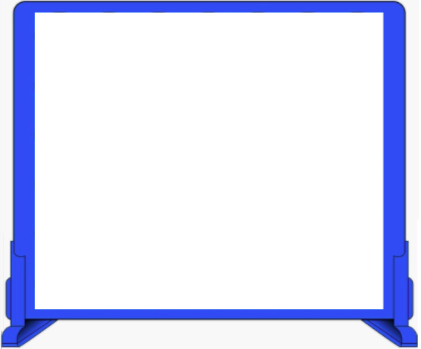
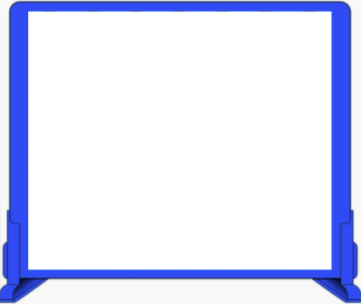
Centered game board

Changed region(s): [[0.0, 0.0, 1.0, 1.0]]

diff --git a/index.html b/index.html
@@ -1,5 +1,6 @@
 <!DOCTYPE html>
 <html lang="en">
+
 <head>
     <meta charset="UTF-8">
     <meta http-equiv="X-UA-Compatible" content="IE=edge">
@@ -10,70 +11,74 @@
     <h1>Connect 4</h1>
     <h3></h3>
     <div id="maincontent">
-    <table>
-        <tr id = "0">
-          <td><span id="cir00" class="circle"></span></td>
-          <td><span id="cir01" class="circle"></span></td>
-          <td><span id="cir02" class="circle"></span></td>
-          <td><span id="cir03" class="circle"></span></td>
-          <td><span id="cir04" class="circle"></span></td>
-          <td><span id="cir05" class="circle"></span></td>
-          <td><span id="cir06" class="circle"></span></td>
-        </tr>
-        <tr id = "1">
-            <td><span id="cir10" class="circle"></span></td>
-            <td><span id="cir11" class="circle"></span></td>
-            <td><span id="cir12" class="circle"></span></td>
-            <td><span id="cir13" class="circle"></span></td>
-            <td><span id="cir14" class="circle"></span></td>
-            <td><span id="cir15" class="circle"></span></td>
-            <td><span id="cir16" class="circle"></span></td>
-        </tr>
-        <tr id = "2">
-            <td><span id="cir20" class="circle"></span></td>
-            <td><span id="cir21" class="circle"></span></td>
-            <td><span id="cir22" class="circle"></span></td>
-            <td><span id="cir23" class="circle"></span></td>
-            <td><span id="cir24" class="circle"></span></td>
-            <td><span id="cir25" class="circle"></span></td>
-            <td><span id="cir26" class="circle"></span></td>
-        </tr>
-        <tr id ="3"> 
-            <td><span id="cir30" class="circle"></span></td>
-            <td><span id="cir31" class="circle"></span></td>
-            <td><span id="cir32" class="circle"></span></td>
-            <td><span id="cir33" class="circle"></span></td>
-            <td><span id="cir34" class="circle"></span></td>
-            <td><span id="cir35" class="circle"></span></td>
-            <td><span id="cir36" class="circle"></span></td>
-        </tr>
-        <tr id = "4">
-            <td><span id="cir40" class="circle"></span></td>
-            <td><span id="cir41" class="circle"></span></td>
-            <td><span id="cir42" class="circle"></span></td>
-            <td><span id="cir43" class="circle"></span></td>
-            <td><span id="cir44" class="circle"></span></td>
-            <td><span id="cir45" class="circle"></span></td>
-            <td><span id="cir46" class="circle"></span></td>
-        </tr>
-        <tr id = "5">
-            <td><span id="cir50" class="circle"></span></td>
-            <td><span id="cir51" class="circle"></span></td>
-            <td><span id="cir52" class="circle"></span></td>
-            <td><span id="cir53" class="circle"></span></td>
-            <td><span id="cir54" class="circle"></span></td>
-            <td><span id="cir55" class="circle"></span></td>
-            <td><span id="cir56" class="circle"></span></td>
-        </tr>
-      </table>
+        <!-- <img src="images/Connect4boardborder.png" /> -->
+        <div class="image">
+            <table>
+                <tr id="0">
+                    <td><span id="cir00" class="circle"></span></td>
+                    <td><span id="cir01" class="circle"></span></td>
+                    <td><span id="cir02" class="circle"></span></td>
+                    <td><span id="cir03" class="circle"></span></td>
+                    <td><span id="cir04" class="circle"></span></td>
+                    <td><span id="cir05" class="circle"></span></td>
+                    <td><span id="cir06" class="circle"></span></td>
+                </tr>
+                <tr id="1">
+                    <td><span id="cir10" class="circle"></span></td>
+                    <td><span id="cir11" class="circle"></span></td>
+                    <td><span id="cir12" class="circle"></span></td>
+                    <td><span id="cir13" class="circle"></span></td>
+                    <td><span id="cir14" class="circle"></span></td>
+                    <td><span id="cir15" class="circle"></span></td>
+                    <td><span id="cir16" class="circle"></span></td>
+                </tr>
+                <tr id="2">
+                    <td><span id="cir20" class="circle"></span></td>
+                    <td><span id="cir21" class="circle"></span></td>
+                    <td><span id="cir22" class="circle"></span></td>
+                    <td><span id="cir23" class="circle"></span></td>
+                    <td><span id="cir24" class="circle"></span></td>
+                    <td><span id="cir25" class="circle"></span></td>
+                    <td><span id="cir26" class="circle"></span></td>
+                </tr>
+                <tr id="3">
+                    <td><span id="cir30" class="circle"></span></td>
+                    <td><span id="cir31" class="circle"></span></td>
+                    <td><span id="cir32" class="circle"></span></td>
+                    <td><span id="cir33" class="circle"></span></td>
+                    <td><span id="cir34" class="circle"></span></td>
+                    <td><span id="cir35" class="circle"></span></td>
+                    <td><span id="cir36" class="circle"></span></td>
+                </tr>
+                <tr id="4">
+                    <td><span id="cir40" class="circle"></span></td>
+                    <td><span id="cir41" class="circle"></span></td>
+                    <td><span id="cir42" class="circle"></span></td>
+                    <td><span id="cir43" class="circle"></span></td>
+                    <td><span id="cir44" class="circle"></span></td>
+                    <td><span id="cir45" class="circle"></span></td>
+                    <td><span id="cir46" class="circle"></span></td>
+                </tr>
+                <tr id="5">
+                    <td><span id="cir50" class="circle"></span></td>
+                    <td><span id="cir51" class="circle"></span></td>
+                    <td><span id="cir52" class="circle"></span></td>
+                    <td><span id="cir53" class="circle"></span></td>
+                    <td><span id="cir54" class="circle"></span></td>
+                    <td><span id="cir55" class="circle"></span></td>
+                    <td><span id="cir56" class="circle"></span></td>
+                </tr>
+            </table>
+        </div>
     </div>
-      <button id="startbutton">START GAME</button>
-      <br>
-      <br>
-      <button id="resetbutton">RESET GAME</button>
+    <br>
+    <button id="startbutton">START GAME</button>
+    <br>
+    <br>
+    <button id="resetbutton">RESET GAME</button>
 </head>
+
 <body>
 </body>
+
 </html>
-
-

diff --git a/main.css b/main.css
@@ -2,22 +2,25 @@
 
 table {
     border-collapse: collapse;
-    width: 360px;
-    height: 305px;
+    padding-left: 27px;
+    padding-right: 28px;
+    padding-top: 9px;
+    display:block;
   }
   
 td {
     border: 0px solid rgba(26,98,240,255);
+    width: 43.7px;
   }
   
 tr {
     background-color: rgba(26,98,240,255);
-    height: 25px;
+    height: 43.8px;
   }
 
 .circle {
-    height: 40px;
-    width: 40px;
+    height: 30px;
+    width: 30px;
     background-color:white;
     border-radius: 50%;
     padding: 5px;
@@ -42,13 +45,22 @@ tr {
   }
 
 #maincontent {
-  background: url(images/Connect4boardborder.png) no-repeat 0 100%;
-  padding: 60px 60px 39px 30px;
-  /* top right bottom left */
- }
+  width: 100%;
+  height: 320px;
+}
 
  body {
    background-color: #f8f8f8;
    font-family: arial, sans-serif;
    text-align: center;
+ }
+
+
+.image {
+  background-image: url('images/Connect4boardborder.png');
+  background-repeat: no-repeat;
+  width: 361px;
+  height: 304px;
+  /* Center horizontally */
+  margin: 0 auto;
  }
